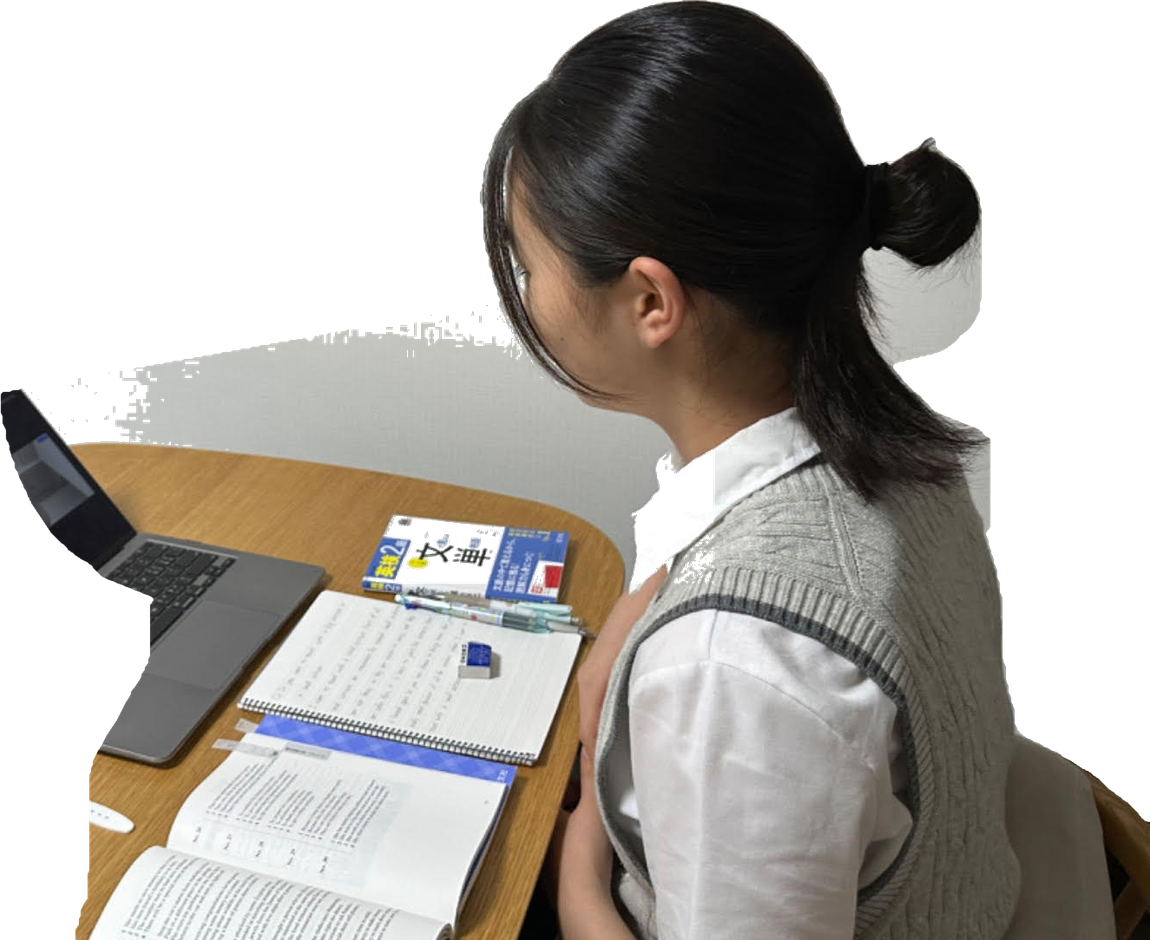
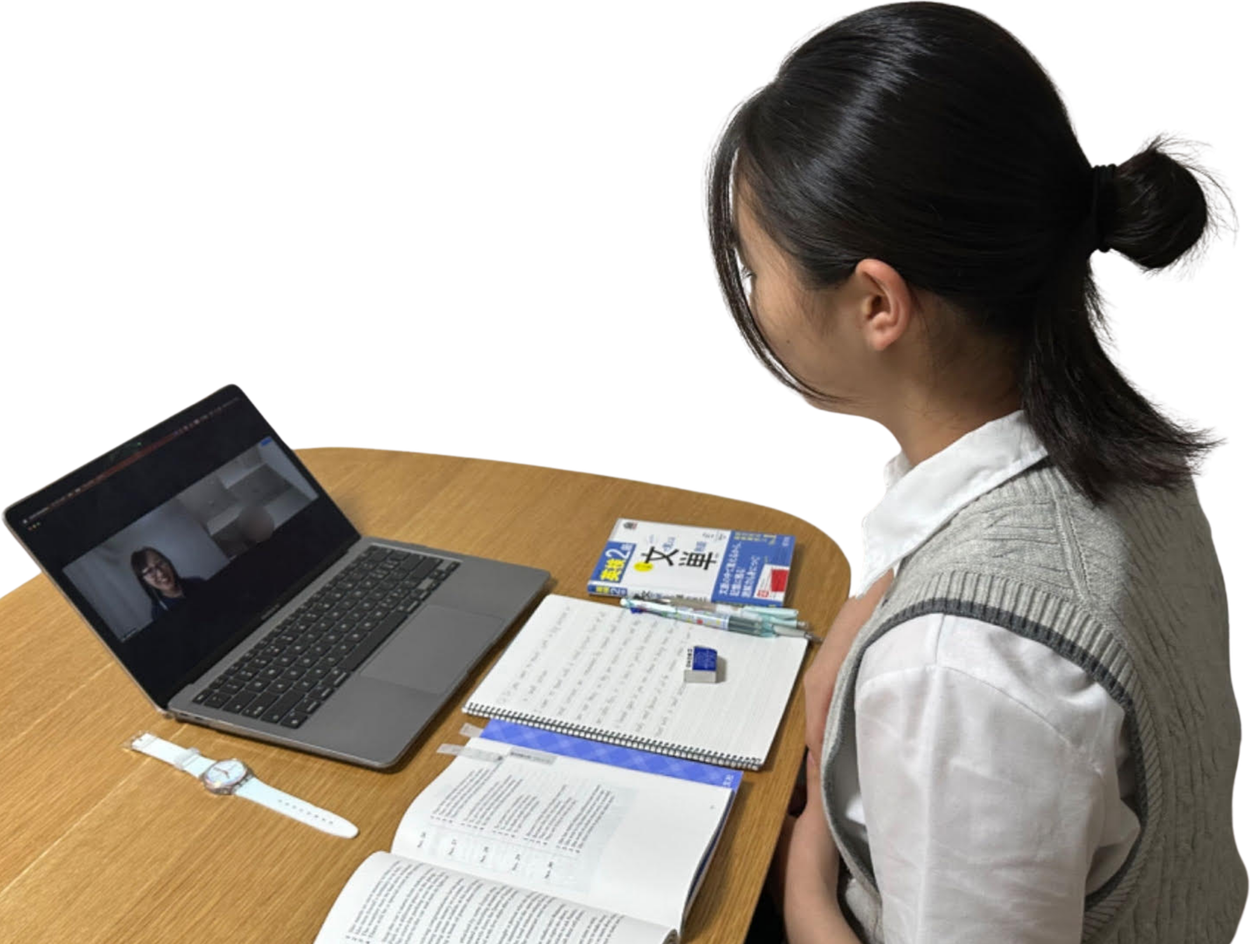
FVの写真2枚を支給の切り抜き版に差し替え、表示寸法を調整

diff --git a/docs/esl/index.html b/docs/esl/index.html
@@ -420,17 +420,17 @@ html:not(.js) .lm__i{transform:none}
 /* ★丸くしない。四隅の曲率をばらして「若干曲がった」形にする */
 /* ★丸くしない。四隅の曲率をばらして「若干曲がった」形にする。
    人物より一回り小さくして、体が枠から はみ出す ようにする */
-.hbc__blob--a{left:35%;top:18%;width:19%;aspect-ratio:1/.98;background:#E2EFD6;
+.hbc__blob--a{left:36%;top:19%;width:17%;aspect-ratio:1/.98;background:#E2EFD6;
   border-radius:44% 56% 61% 39% / 57% 43% 57% 43%}
-.hbc__blob--b{left:72%;top:24%;width:14%;aspect-ratio:1/1;background:#F2E9CE;
+.hbc__blob--b{left:70%;top:29%;width:15%;aspect-ratio:1/1;background:#F2E9CE;
   border-radius:57% 43% 41% 59% / 46% 57% 43% 54%}
 
 /* 写真 */
 .hbc__ph{position:absolute;z-index:3;margin:0;filter:drop-shadow(0 8px 18px rgba(48,48,48,.10))}
 /* ★背景を抜いた人物。枠（色の面）から はみ出す ように大きめに重ねる */
 .hbc__ph img{width:100%;display:block}
-.hbc__ph--a{left:33%;top:23%;width:37%}
-.hbc__ph--b{left:69%;top:30%;width:23%}
+.hbc__ph--a{left:34%;top:24%;width:32%}
+.hbc__ph--b{left:66%;top:35%;width:28%}
 
 /* 見出し */
 .hbc__head{grid-column:1;grid-row:1;z-index:5}

diff --git a/parts/hero/hero-blob-cutout/part.css b/parts/hero/hero-blob-cutout/part.css
@@ -19,17 +19,17 @@
 /* ★丸くしない。四隅の曲率をばらして「若干曲がった」形にする */
 /* ★丸くしない。四隅の曲率をばらして「若干曲がった」形にする。
    人物より一回り小さくして、体が枠から はみ出す ようにする */
-.hbc__blob--a{left:35%;top:18%;width:19%;aspect-ratio:1/.98;background:#E2EFD6;
+.hbc__blob--a{left:36%;top:19%;width:17%;aspect-ratio:1/.98;background:#E2EFD6;
   border-radius:44% 56% 61% 39% / 57% 43% 57% 43%}
-.hbc__blob--b{left:72%;top:24%;width:14%;aspect-ratio:1/1;background:#F2E9CE;
+.hbc__blob--b{left:70%;top:29%;width:15%;aspect-ratio:1/1;background:#F2E9CE;
   border-radius:57% 43% 41% 59% / 46% 57% 43% 54%}
 
 /* 写真 */
 .hbc__ph{position:absolute;z-index:3;margin:0;filter:drop-shadow(0 8px 18px rgba(48,48,48,.10))}
 /* ★背景を抜いた人物。枠（色の面）から はみ出す ように大きめに重ねる */
 .hbc__ph img{width:100%;display:block}
-.hbc__ph--a{left:33%;top:23%;width:37%}
-.hbc__ph--b{left:69%;top:30%;width:23%}
+.hbc__ph--a{left:34%;top:24%;width:32%}
+.hbc__ph--b{left:66%;top:35%;width:28%}
 
 /* 見出し */
 .hbc__head{grid-column:1;grid-row:1;z-index:5}
